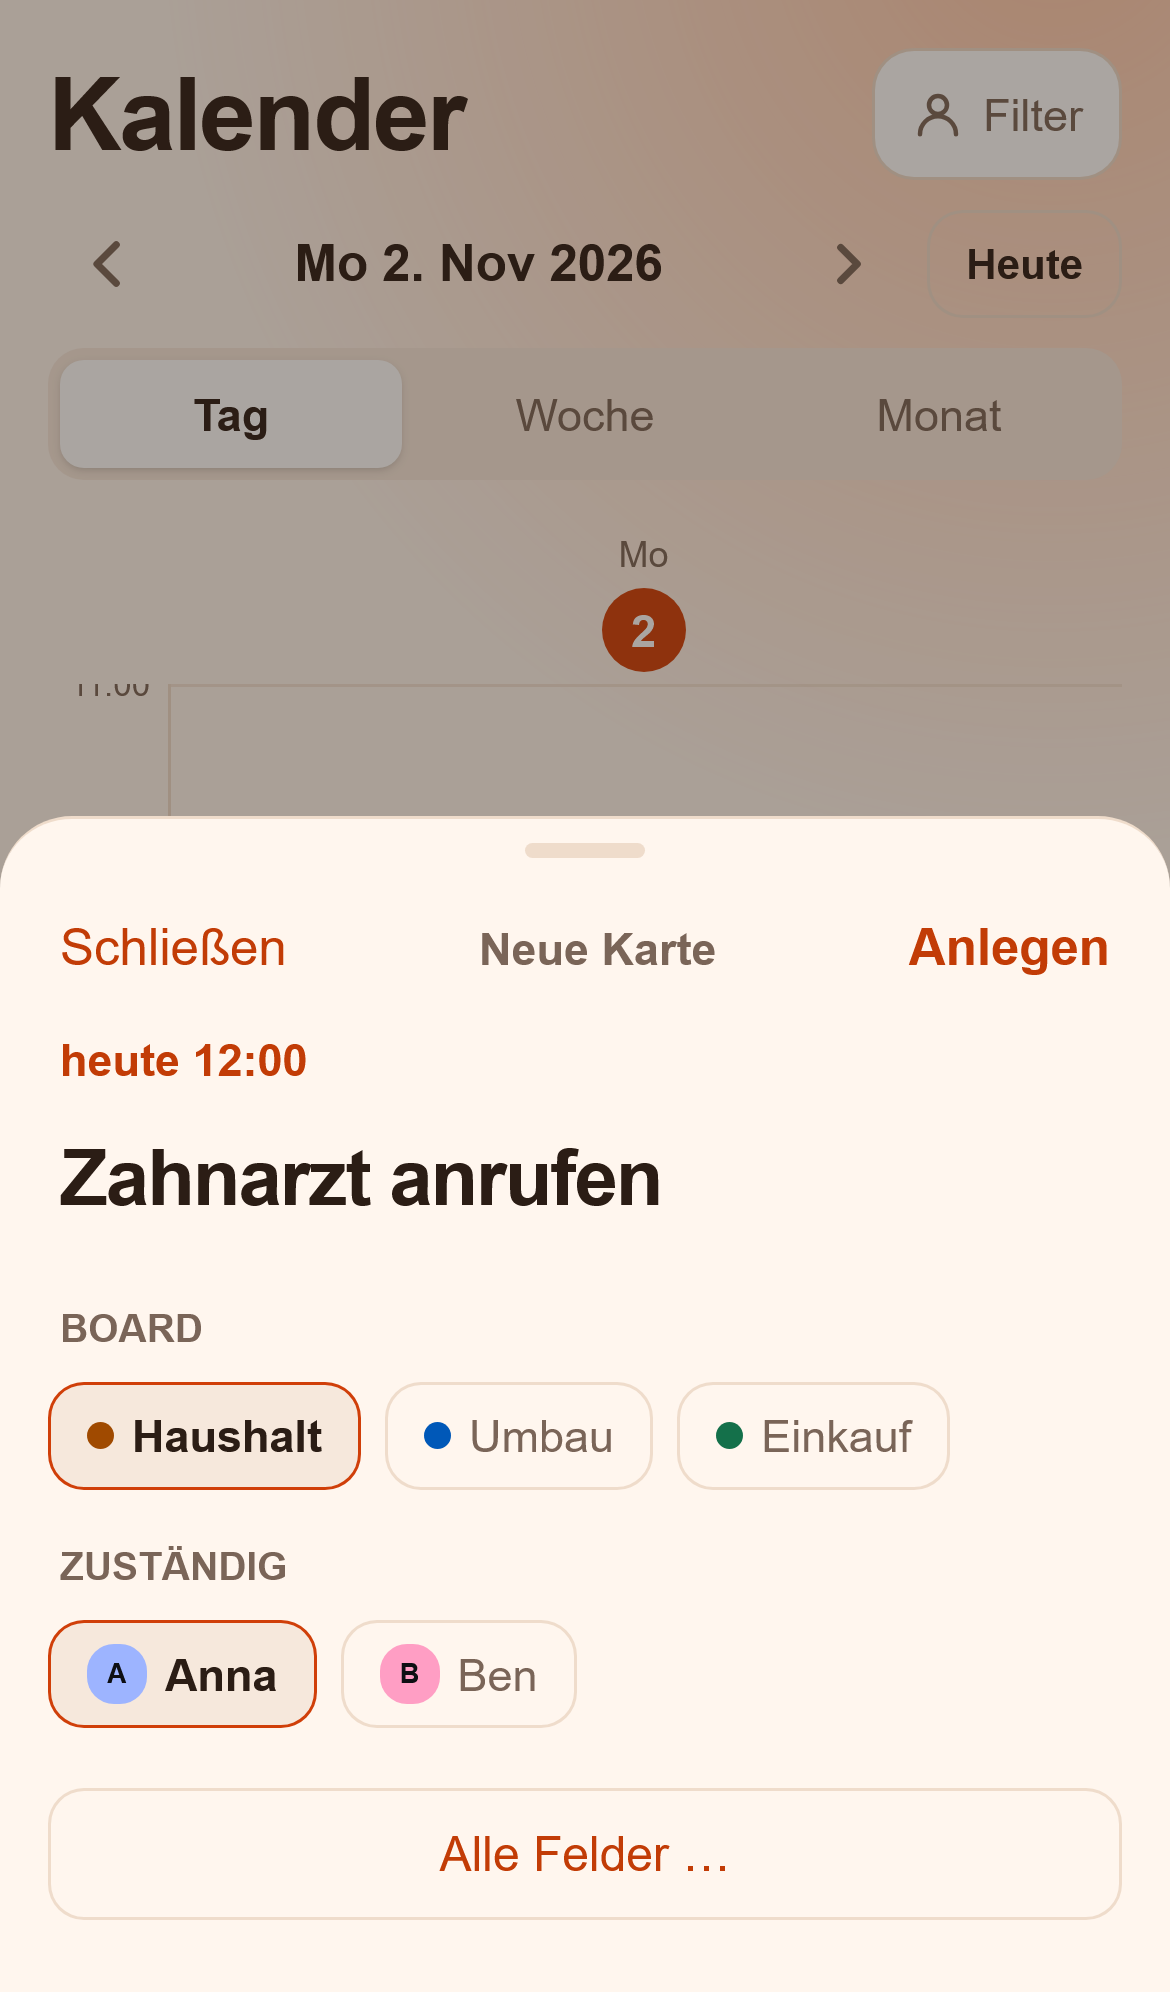
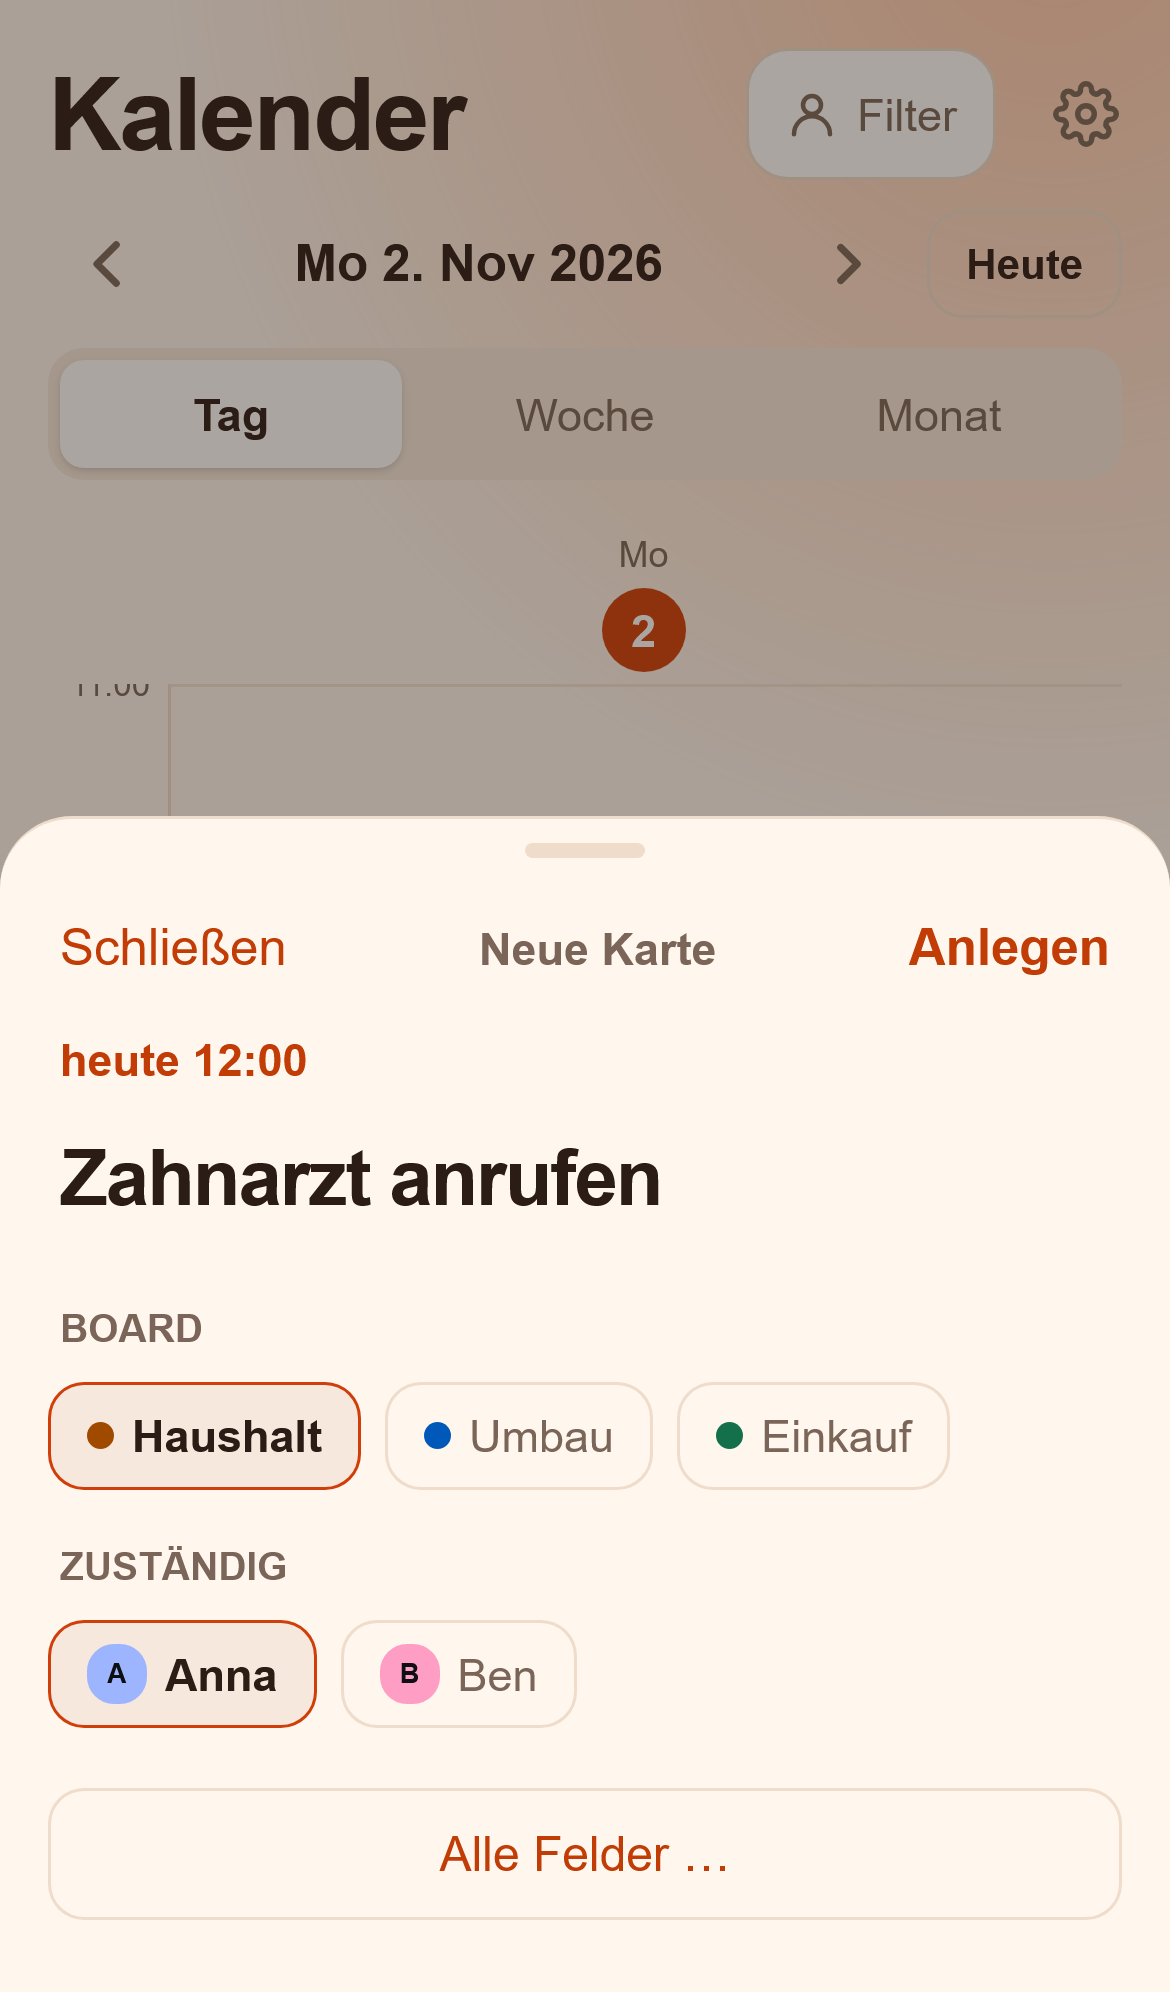
Stups 1.13.1-beta.1: Zahnrad oben rechts öffnet die Einstellungen auf jedem Reiter
Dezentes Zahnrad ohne Rahmen in der Kopfzeile von Boards, Agenda, Kalender und Wächter (kein zusätzlicher Platz),
neues Symbol "gear", Browser-Test, Screenshots erneuert. Außerdem macht der Standalone-Test seine Suche nach der
neuen Karte unabhängig vom ausblendenden Fenster "Neue Karte".

Changed region(s): [[0.6154, 0.0, 0.9538, 0.0934]]

diff --git a/packages/web/src/components/WatchersView.svelte b/packages/web/src/components/WatchersView.svelte
@@ -4,6 +4,7 @@
   import { conditionText, RUN_TEXT, TEMPLATES, watcherLine } from '../lib/watchers';
   import { openCardAnywhere, openSheet, personById, toast, ui } from '../lib/store.svelte';
   import Icon from './Icon.svelte';
+  import SettingsButton from './SettingsButton.svelte';
 
   const data = $derived(ui.watchers);
   const items = $derived(data?.items ?? []);
@@ -51,15 +52,18 @@
   <header class="shrink-0 pt-2">
     <div class="flex items-center justify-between gap-2">
       <h1 class="text-[34px] leading-tight font-bold tracking-tight">Wächter</h1>
-      {#if admin && data?.available}
-        <button
-          class="flex h-11 w-11 shrink-0 items-center justify-center rounded-[14px] border border-line bg-surface text-accent-text"
-          aria-label="Wächter hinzufügen"
-          onclick={() => openSheet({ type: 'watcher', id: null })}
-        >
-          <Icon name="plus" size={22} stroke={2.6} />
-        </button>
-      {/if}
+      <div class="flex items-center gap-2">
+        {#if admin && data?.available}
+          <button
+            class="flex h-11 w-11 shrink-0 items-center justify-center rounded-[14px] border border-line bg-surface text-accent-text"
+            aria-label="Wächter hinzufügen"
+            onclick={() => openSheet({ type: 'watcher', id: null })}
+          >
+            <Icon name="plus" size={22} stroke={2.6} />
+          </button>
+        {/if}
+        <SettingsButton />
+      </div>
     </div>
     <p class="mb-3 text-[15px] text-fg2">Karten, die von selbst aus Home Assistant entstehen</p>
   </header>

diff --git a/packages/web/src/components/Icon.svelte b/packages/web/src/components/Icon.svelte
@@ -19,6 +19,7 @@
     trash: '<path d="M4 7h16M10 11v6M14 11v6M6 7l1 13h10l1-13M9 7V4h6v3"/>',
     more: '<circle cx="5" cy="12" r="1.3"/><circle cx="12" cy="12" r="1.3"/><circle cx="19" cy="12" r="1.3"/>',
     settings: '<path d="M4 6h10M18 6h2M4 12h2M10 12h10M4 18h12M20 18h0"/><circle cx="16" cy="6" r="2"/><circle cx="8" cy="12" r="2"/><circle cx="18" cy="18" r="2"/>',
+    gear: '<circle cx="12" cy="12" r="3"/><path d="M19.4 15a1.65 1.65 0 0 0 .33 1.82l.06.06a2 2 0 0 1 0 2.83 2 2 0 0 1-2.83 0l-.06-.06a1.65 1.65 0 0 0-1.82-.33 1.65 1.65 0 0 0-1 1.51V21a2 2 0 0 1-2 2 2 2 0 0 1-2-2v-.09A1.65 1.65 0 0 0 9 19.4a1.65 1.65 0 0 0-1.82.33l-.06.06a2 2 0 0 1-2.83 0 2 2 0 0 1 0-2.83l.06-.06a1.65 1.65 0 0 0 .33-1.82 1.65 1.65 0 0 0-1.51-1H3a2 2 0 0 1-2-2 2 2 0 0 1 2-2h.09A1.65 1.65 0 0 0 4.6 9a1.65 1.65 0 0 0-.33-1.82l-.06-.06a2 2 0 0 1 0-2.83 2 2 0 0 1 2.83 0l.06.06a1.65 1.65 0 0 0 1.82.33H9a1.65 1.65 0 0 0 1-1.51V3a2 2 0 0 1 2-2 2 2 0 0 1 2 2v.09a1.65 1.65 0 0 0 1 1.51 1.65 1.65 0 0 0 1.82-.33l.06-.06a2 2 0 0 1 2.83 0 2 2 0 0 1 0 2.83l-.06.06a1.65 1.65 0 0 0-.33 1.82V9a1.65 1.65 0 0 0 1.51 1H21a2 2 0 0 1 2 2 2 2 0 0 1-2 2h-.09a1.65 1.65 0 0 0-1.51 1z"/>',
     undo: '<path d="M9 14L4 9l5-5"/><path d="M4 9h10a6 6 0 0 1 0 12h-3"/>',
     'map-pin': '<path d="M12 21s-7-6.2-7-11a7 7 0 0 1 14 0c0 4.8-7 11-7 11z"/><circle cx="12" cy="10" r="2.5"/>',
     globe: '<circle cx="12" cy="12" r="9"/><path d="M3 12h18M12 3a14 14 0 0 1 0 18M12 3a14 14 0 0 0 0 18"/>',

diff --git a/e2e/11-reiter.spec.ts b/e2e/11-reiter.spec.ts
@@ -28,6 +28,23 @@ test('Reiter „Wächter": auch Mitglieder (keine Administratoren) sehen ihn, nu
   }
 });
 
+test('Zahnrad oben rechts: auf jedem Reiter öffnet es die Einstellungen, ohne die Seite zu verbreitern', async ({ page }) => {
+  await page.goto('/');
+  for (const tab of ['Boards', 'Agenda', 'Kalender', 'Wächter']) {
+    await nav(page).getByRole('button', { name: tab }).click();
+    const gear = page.getByRole('button', { name: 'Einstellungen öffnen' });
+    await expect(gear).toBeVisible();
+    const box = (await gear.boundingBox())!;
+    const width = page.viewportSize()!.width;
+    expect(box.x + box.width).toBeLessThanOrEqual(width); // nicht abgeschnitten
+    expect(await page.evaluate(() => document.documentElement.scrollWidth <= window.innerWidth)).toBe(true);
+    await gear.click();
+    await expect(page.getByRole('dialog').getByText('Einstellungen', { exact: true }).first()).toBeVisible();
+    await page.keyboard.press('Escape');
+    await expect(page.getByRole('dialog')).toHaveCount(0);
+  }
+});
+
 test('In den Einstellungen führt „Wächter" zum Reiter', async ({ page }) => {
   await page.goto('/');
   await page.getByRole('button', { name: 'Board wechseln' }).click();

diff --git a/packages/web/src/App.svelte b/packages/web/src/App.svelte
@@ -14,6 +14,7 @@
   import ColumnList from './components/ColumnList.svelte';
   import ColumnTabs from './components/ColumnTabs.svelte';
   import Icon from './components/Icon.svelte';
+  import SettingsButton from './components/SettingsButton.svelte';
   import Lightbox from './components/Lightbox.svelte';
   import NewCardSheet from './components/NewCardSheet.svelte';
   import NudgeSheet from './components/NudgeSheet.svelte';
@@ -113,11 +114,14 @@
         {:else}
           <span class="min-h-11"></span>
         {/if}
-        {#if !ui.online}
-          <span class="flex items-center gap-1.5 rounded-full bg-surface2 px-3 py-1 text-[13px] text-fg2" role="status">
-            <Icon name="wifi-off" size={14} />Offline
-          </span>
-        {/if}
+        <div class="flex items-center gap-2">
+          {#if !ui.online}
+            <span class="flex items-center gap-1.5 rounded-full bg-surface2 px-3 py-1 text-[13px] text-fg2" role="status">
+              <Icon name="wifi-off" size={14} />Offline
+            </span>
+          {/if}
+          <SettingsButton />
+        </div>
       </div>
 
       <div class="flex items-center justify-between gap-3">

diff --git a/packages/web/src/components/CalendarView.svelte b/packages/web/src/components/CalendarView.svelte
@@ -19,6 +19,7 @@
   import { boardColorKey, dayKeyOf, filterSchedule, isFiltered, type ScheduleCard } from '../lib/schedule';
   import { openCardAnywhere, openSheet, ui } from '../lib/store.svelte';
   import Icon from './Icon.svelte';
+  import SettingsButton from './SettingsButton.svelte';
   import ScheduleFilterBar from './ScheduleFilterBar.svelte';
 
   const HOUR_PX = 56;
@@ -126,6 +127,7 @@
   <header class="shrink-0 pt-2">
     <div class="flex items-center justify-between gap-2">
       <h1 class="text-[34px] leading-tight font-bold tracking-tight">Kalender</h1>
+      <div class="flex items-center gap-2">
       <button
         class="relative flex h-11 items-center gap-1.5 rounded-[14px] border border-line bg-surface px-3 text-[15px] {isFiltered(ui.sf) ? 'text-accent-text' : 'text-fg2'}"
         aria-pressed={filterOpen}
@@ -133,6 +135,8 @@
       >
         <Icon name="user" size={18} />Filter{#if isFiltered(ui.sf)}<span class="h-2 w-2 rounded-full bg-accent"></span>{/if}
       </button>
+      <SettingsButton />
+      </div>
     </div>
 
     {#if filterOpen}<div class="mt-2"><ScheduleFilterBar cards={loaded} /></div>{/if}

diff --git a/packages/web/src/components/AgendaView.svelte b/packages/web/src/components/AgendaView.svelte
@@ -6,6 +6,7 @@
   import { urgency, urgencyColor } from '../lib/urgency';
   import Avatar from './Avatar.svelte';
   import Icon from './Icon.svelte';
+  import SettingsButton from './SettingsButton.svelte';
   import ScheduleFilterBar from './ScheduleFilterBar.svelte';
 
   const DAY = 86_400_000;
@@ -51,7 +52,10 @@
 
 <main class="relative z-[1] mx-auto flex h-full max-w-[720px] flex-col px-4 pt-[max(8px,var(--safe-top))]">
   <header class="shrink-0 pt-2">
-    <h1 class="text-[34px] leading-tight font-bold tracking-tight">Agenda</h1>
+    <div class="flex items-center justify-between gap-2">
+      <h1 class="text-[34px] leading-tight font-bold tracking-tight">Agenda</h1>
+      <SettingsButton />
+    </div>
     <p class="mb-3 text-[15px] text-fg2">Alle Karten mit Termin, nach Tagen</p>
     <ScheduleFilterBar cards={loaded} />
   </header>

diff --git a/e2e/12-standalone.spec.ts b/e2e/12-standalone.spec.ts
@@ -87,10 +87,11 @@ test('Anmelden, Karte anlegen, nach dem Neuladen noch angemeldet; Abmelden sperr
   await page.getByRole('button', { name: 'Neue Karte', exact: true }).click();
   await page.getByLabel('Titel').fill('Fenster putzen');
   await page.getByRole('button', { name: 'Anlegen' }).click();
-  await expect(page.getByText('Fenster putzen')).toBeVisible();
+  // in der Liste suchen: Solange das Fenster „Neue Karte" ausblendet, steht der Titel noch einmal im Eingabefeld
+  await expect(page.getByRole('list').getByText('Fenster putzen')).toBeVisible();
 
   await page.reload();
-  await expect(page.getByText('Fenster putzen')).toBeVisible();
+  await expect(page.getByRole('list').getByText('Fenster putzen')).toBeVisible();
 
   const dialog = await einstellungen(page);
   await dialog.getByRole('button', { name: 'Abmelden' }).click();

diff --git a/packages/web/src/components/SettingsButton.svelte b/packages/web/src/components/SettingsButton.svelte
@@ -1,0 +1,9 @@
+<script lang="ts">
+  import { openSheet } from '../lib/store.svelte';
+  import Icon from './Icon.svelte';
+</script>
+
+<!-- Zahnrad oben rechts in der Kopfzeile jedes Reiters: ohne Rahmen, damit es neben Suche, Filter und „+" nicht mitzählt -->
+<button class="-mr-2.5 flex h-11 w-11 shrink-0 items-center justify-center rounded-[14px] text-fg2" aria-label="Einstellungen öffnen" onclick={() => openSheet({ type: 'settings' })}>
+  <Icon name="gear" size={22} />
+</button>

diff --git a/packages/web/src/components/BoardSwitcher.svelte b/packages/web/src/components/BoardSwitcher.svelte
@@ -26,7 +26,7 @@
     ['settings', 'Board-Einstellungen', 'boardSettings'],
     ['archive', 'Archiv', 'archive'],
     ['trash', 'Papierkorb', 'trash'],
-    ['settings', 'Einstellungen', 'settings'],
+    ['gear', 'Einstellungen', 'settings'],
   ] as const;
 </script>
 

diff --git a/stups-beta/CHANGELOG.md b/stups-beta/CHANGELOG.md
@@ -2,6 +2,9 @@
 
 Die Beta bekommt jede neue Version vor der normalen App. Was sich ändert, steht im Changelog der normalen App: [stups/CHANGELOG.md](https://github.com/ArrestedOps/ha-stups/blob/main/stups/CHANGELOG.md). Hier nur, was die Beta selbst betrifft.
 
+## 1.13.1-beta.1
+
+- **Zahnrad für die Einstellungen.** Oben rechts in der Kopfzeile jedes Reiters (Boards, Agenda, Kalender, Wächter) sitzt jetzt ein dezentes Zahnrad ohne Rahmen. Ein Tipp öffnet die Einstellungen; der Weg über den Board-Namen bleibt. Die Kopfzeile wird dadurch nicht höher
 ## 1.13.0-beta.1
 
 - **Live-Sync schlanker.** Ändert jemand eine Karte, meldet der Server jetzt auch, welche, und die anderen Geräte holen nur diese Karte nach statt das ganze Board. Auf einem Board mit 300 Karten sind das für eine Änderung 1,1 KB statt 210 KB. Bei allem anderen (Boards, Spalten, Kategorien, Personen, Stupse, Wächter, Kosten) und nach einem Verbindungsabbruch lädt die App wie bisher alles neu

diff --git a/docs/testliste.md b/docs/testliste.md
@@ -239,6 +239,12 @@ Zwei Geräte (zum Beispiel iPhone und Mac), beide in der Beta.
 - [ ] App im Hintergrund, am anderen Gerät mehrere Karten ändern, wieder öffnen: aktueller Stand
 - [ ] Flugmodus kurz an und wieder aus, am anderen Gerät währenddessen etwas ändern: Nach dem Verbinden stimmt der Stand
 
+## 21 · Zahnrad für die Einstellungen (seit 1.13.1)
+
+- [ ] Oben rechts in der Kopfzeile jedes Reiters (Boards, Agenda, Kalender, Wächter) steht ein Zahnrad. Ein Tipp öffnet die Einstellungen
+- [ ] Das Zahnrad verdeckt nichts: Im Board neben „Dashboard", im Kalender neben „Filter", bei den Wächtern neben „+". Auch mit „Offline"-Hinweis und langem Board-Namen passt alles in die Zeile
+- [ ] Der Weg über den Board-Namen › „Einstellungen" geht weiter
+
 ## Bekannte Lücken
 
 - Dass die Kopfzeile ausgeblendet wird, ließ sich ohne Companion App nicht sehen (zwei Wege eingebaut, siehe 1).
